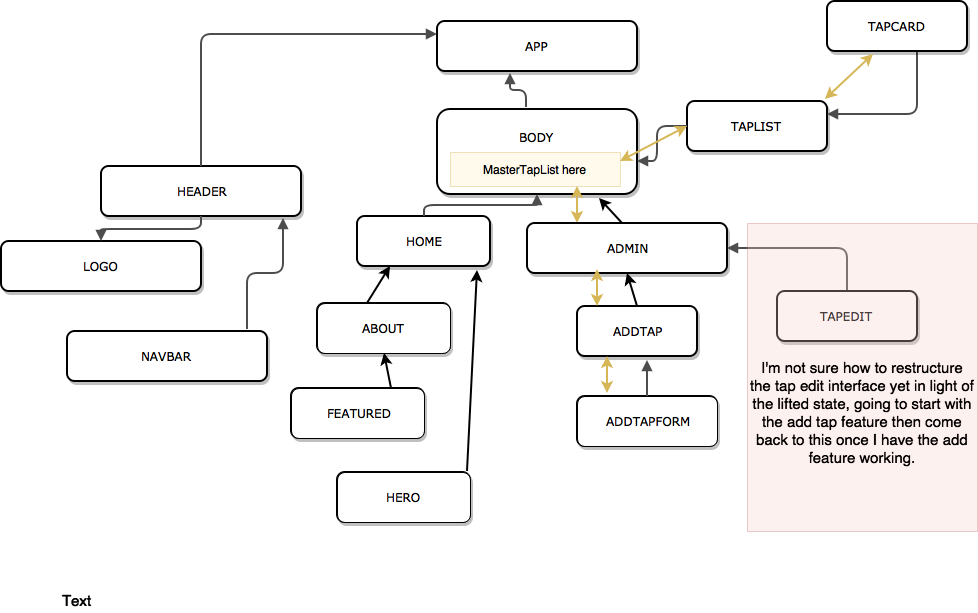
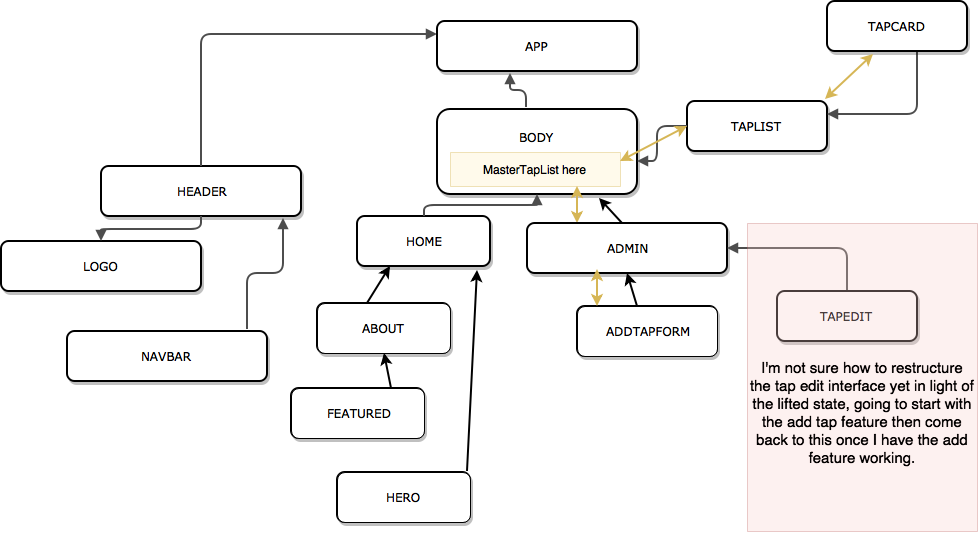
Add callbacks to transfer tap data from body to new tap form

diff --git a/src/components/Admin.jsx b/src/components/Admin.jsx
@@ -1,27 +1,37 @@
 import React from 'react';
 import Stafftaplist from './Stafftaplist';
-import Addtap from './Addtap';
+import AddTapForm from './AddTapForm';
+import PropTypes from 'prop-types';
 
 
-function Admin(){
-  return (
-    <div>
-      <style jsx>{`
-      div {
-        display: flex;
-        flex-wrap: wrap;
-        justify-content: space-between;
-      }
-      h1 {
-        color: white;
-      }
-    `}</style>
-      <Stafftaplist />
-      <Addtap />
+class Admin extends React.Component {
 
-    </div>
+  render(){
+    return (
+      <div>
 
-  );
+        <style jsx>{`
+          div {
+            display: flex;
+            flex-wrap: wrap;
+            justify-content: space-between;
+          }
+          h1 {
+            color: white;
+          }
+        `}</style>
+        
+        <Stafftaplist />
+        <AddTapForm onNewTapCreation={this.props.onNewTapCreation}/>
+
+      </div>
+
+    );
+  }
 }
+
+Admin.PropTypes = {
+  onNewTapCreation: PropTypes.func
+};
 
 export default Admin;

diff --git a/src/components/Taplist.jsx b/src/components/Taplist.jsx
@@ -5,36 +5,6 @@ import Row from 'react-bootstrap/lib/Row';
 import Col from 'react-bootstrap/lib/Col';
 import PropTypes from 'prop-types';
 
-const masterTapList = [
-  {
-    name: 'Made Marion',
-    brand: '2 Towns',
-    price: 4,
-    alcoholContent: 6,
-    amountRemaining: 124
-  },
-  {
-    name: 'Boysenberry Lemonade',
-    brand: 'Baumans',
-    price: 6,
-    alcoholContent: 6.2,
-    amountRemaining: 124
-  },
-  {
-    name: 'Poire',
-    brand: 'Christian Drouin',
-    price: 5,
-    alcoholContent: 4,
-    amountRemaining: 124
-  },
-  {
-    name: 'Oregon Wild',
-    brand: 'Portland Cider Company',
-    price: 8,
-    alcoholContent: 5.8,
-    amountRemaining: 124
-  }
-];
 function Taplist(){
   return (
     <div>

diff --git a/src/components/Body.jsx b/src/components/Body.jsx
@@ -40,13 +40,21 @@ class Body extends React.Component {
         }
       ]
     };
+    this.handleAddingNewTapToList = this.handleAddingNewTapToList.bind(this);
   }
+
+  handleAddingNewTapToList(newTap) {
+    let newMasterTapList = this.state.masterTapList.slice();
+    newMasterTapList.push(newTap);
+    this.setState({masterTapList: newMasterTapList});
+  }
+
   render(){
     return (
       <div>
         <Switch>
           <Route exact path='/' component={Home} />
-          <Route path='/admin' component={Admin} />
+          <Route path='/admin' render={()=><Admin onNewTapCreation={this.handleAddingNewTapToList} />}  />
           <Route path='/taplist' component={Taplist} />
         </Switch>
       </div>

diff --git a/src/components/Addtapform.jsx b/src/components/Addtapform.jsx
@@ -2,7 +2,7 @@ import React from 'react';
 import Button from 'react-bootstrap/lib/Button';
 
 
-function Addtapform(){
+function AddTapForm(props){
   return (
     <div>
       <style jsx>{`
@@ -40,4 +40,4 @@ function Addtapform(){
   );
 }
 
-export default Addtapform;
+export default AddTapForm;
